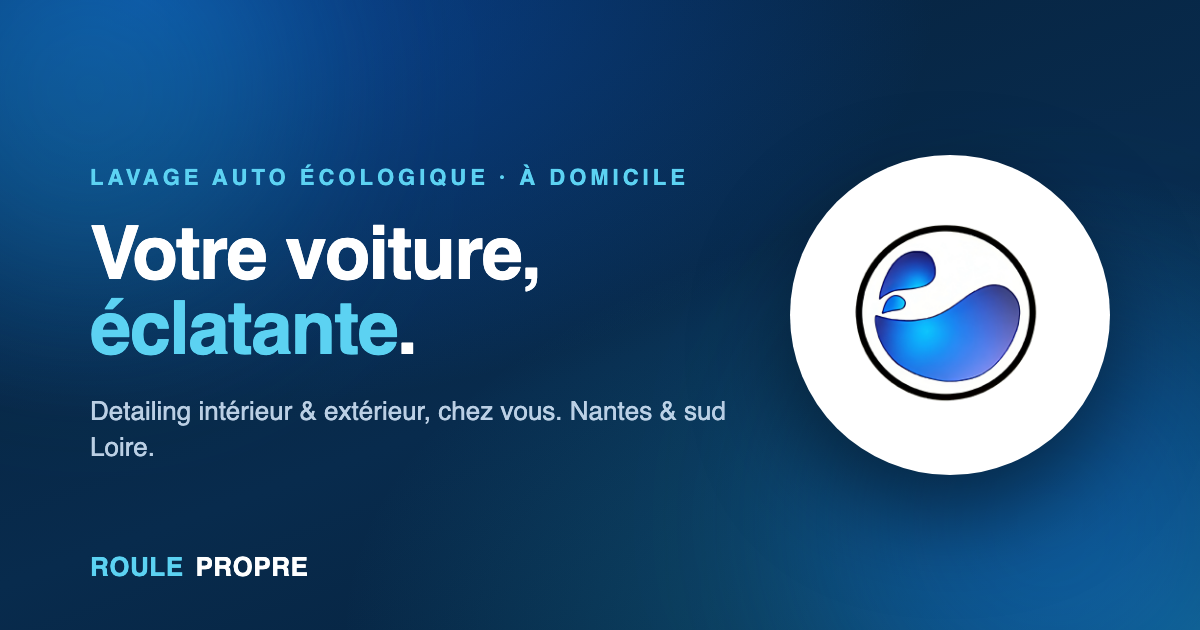
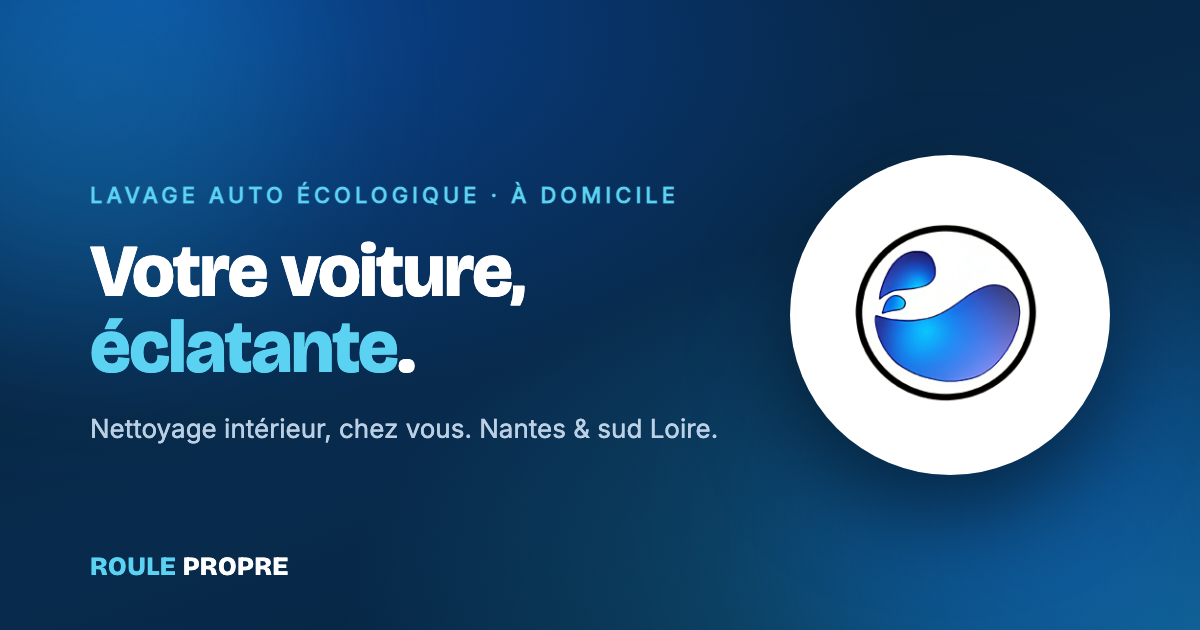
Contenu : horaires, wording, email
- Horaires : Mar–Ven 8h-18h, Sam 8h-12h, Lun & Dim fermé
- « detailing » → « nettoyage » ; suppression des mentions « extérieur »
- Email de contact → roule.propre44@gmail.com (config + JSON-LD)
- Image OG régénérée avec le nouveau wording

diff --git a/index.html b/index.html
@@ -5,7 +5,7 @@
     <meta charset="UTF-8" />
     <meta name="viewport" content="width=device-width, initial-scale=1.0" />
     <title>Roule Propre — Lavage auto écologique à domicile (Nantes & sud Loire)</title>
-    <meta name="description" content="Nettoyage et detailing automobile à domicile par Arthur Godin. Lavage écologique intérieur/extérieur, rénovation des optiques, jantes. Intervention sur Nantes, Aigrefeuille-sur-Maine et tout le sud Loire." />
+    <meta name="description" content="Nettoyage automobile écologique à domicile par Arthur Godin. Lavage intérieur, rénovation des optiques, jantes. Intervention sur Nantes, Aigrefeuille-sur-Maine et tout le sud Loire." />
     <meta name="author" content="Roule Propre" />
     <meta name="theme-color" content="#06203A" />
     <link rel="canonical" href="https://roulepropre.fr/" />
@@ -20,7 +20,7 @@
     <meta property="og:site_name" content="Roule Propre" />
     <meta property="og:url" content="https://roulepropre.fr/" />
     <meta property="og:title" content="Roule Propre — Votre voiture, éclatante, sans bouger de chez vous" />
-    <meta property="og:description" content="Detailing automobile écologique à domicile. Nantes, Aigrefeuille-sur-Maine & sud Loire." />
+    <meta property="og:description" content="Nettoyage automobile écologique à domicile. Nantes, Aigrefeuille-sur-Maine & sud Loire." />
     <meta property="og:image" content="https://roulepropre.fr/og-image.png" />
     <meta property="og:image:width" content="1200" />
     <meta property="og:image:height" content="630" />
@@ -28,7 +28,7 @@
     <!-- Twitter -->
     <meta name="twitter:card" content="summary_large_image" />
     <meta name="twitter:title" content="Roule Propre — Votre voiture, éclatante" />
-    <meta name="twitter:description" content="Detailing automobile écologique à domicile. Nantes & sud Loire." />
+    <meta name="twitter:description" content="Nettoyage automobile écologique à domicile. Nantes & sud Loire." />
     <meta name="twitter:image" content="https://roulepropre.fr/og-image.png" />
 
     <!-- Données structurées : commerce local -->
@@ -37,11 +37,11 @@
       "@context": "https://schema.org",
       "@type": "AutoWash",
       "name": "Roule Propre",
-      "description": "Lavage et detailing automobile écologique à domicile.",
+      "description": "Lavage et nettoyage automobile écologique à domicile.",
       "image": "https://roulepropre.fr/og-image.png",
       "url": "https://roulepropre.fr/",
       "telephone": "+33683704784",
-      "email": "contact@roulepropre.fr",
+      "email": "roule.propre44@gmail.com",
       "priceRange": "€€",
       "areaServed": "Nantes, Aigrefeuille-sur-Maine et sud Loire",
       "address": {

diff --git a/src/components/Footer.tsx b/src/components/Footer.tsx
@@ -26,7 +26,7 @@ const Footer = () => {
               </span>
             </div>
             <p className="mt-5 max-w-xs text-sm leading-relaxed text-blue-100/60">
-              Lavage et detailing automobile écologique, à domicile, dans la région nantaise
+              Lavage et nettoyage automobile écologique, à domicile, dans la région nantaise
               et le sud Loire.
             </p>
             <div className="mt-6 flex gap-3">
@@ -108,15 +108,15 @@ const Footer = () => {
             <h3 className="font-display text-base font-semibold">Horaires</h3>
             <ul className="mt-4 space-y-2.5 text-sm">
               <li className="flex justify-between">
-                <span className="text-blue-100/60">Lundi – Vendredi</span>
+                <span className="text-blue-100/60">Mardi – Vendredi</span>
                 <span>8 h – 18 h</span>
               </li>
               <li className="flex justify-between">
                 <span className="text-blue-100/60">Samedi</span>
-                <span>Fermé</span>
+                <span>8 h – 12 h</span>
               </li>
               <li className="flex justify-between">
-                <span className="text-blue-100/60">Dimanche</span>
+                <span className="text-blue-100/60">Lundi &amp; Dimanche</span>
                 <span>Fermé</span>
               </li>
             </ul>

diff --git a/src/components/HeroSection.tsx b/src/components/HeroSection.tsx
@@ -52,7 +52,7 @@ const HeroSection = () => {
             </h1>
 
             <p className="animate-rise max-w-md text-lg leading-relaxed text-blue-100/90" style={{ animationDelay: "200ms" }}>
-              Detailing intérieur et extérieur réalisé chez vous ou sur votre lieu de
+              Nettoyage intérieur réalisé chez vous ou sur votre lieu de
               travail, avec des produits respectueux de votre véhicule et de l'environnement.
             </p>
 

diff --git a/src/config/site.ts b/src/config/site.ts
@@ -9,7 +9,7 @@ export const siteConfig = {
     // Numéro WhatsApp au format international, sans "+" ni espaces (33 = France)
     whatsapp: "33683704784",
     // Email de réception des demandes
-    email: "contact@roulepropre.fr",
+    email: "roule.propre44@gmail.com",
     // Adresse de départ (base des frais de déplacement)
     address: "36 Avenue de Nantes, 44140 Aigrefeuille-sur-Maine",
   },
